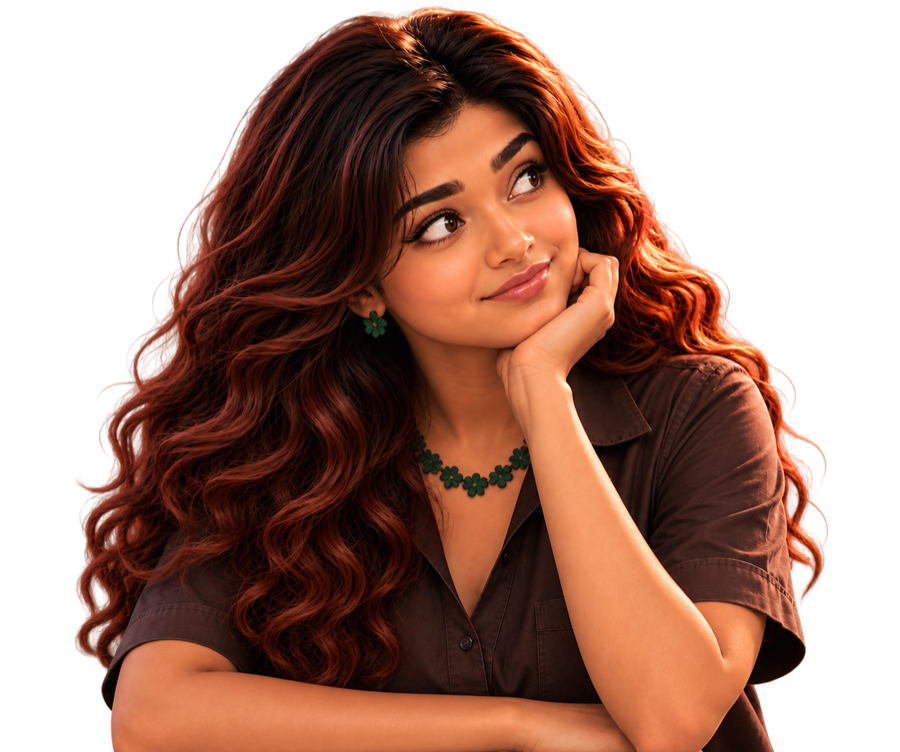
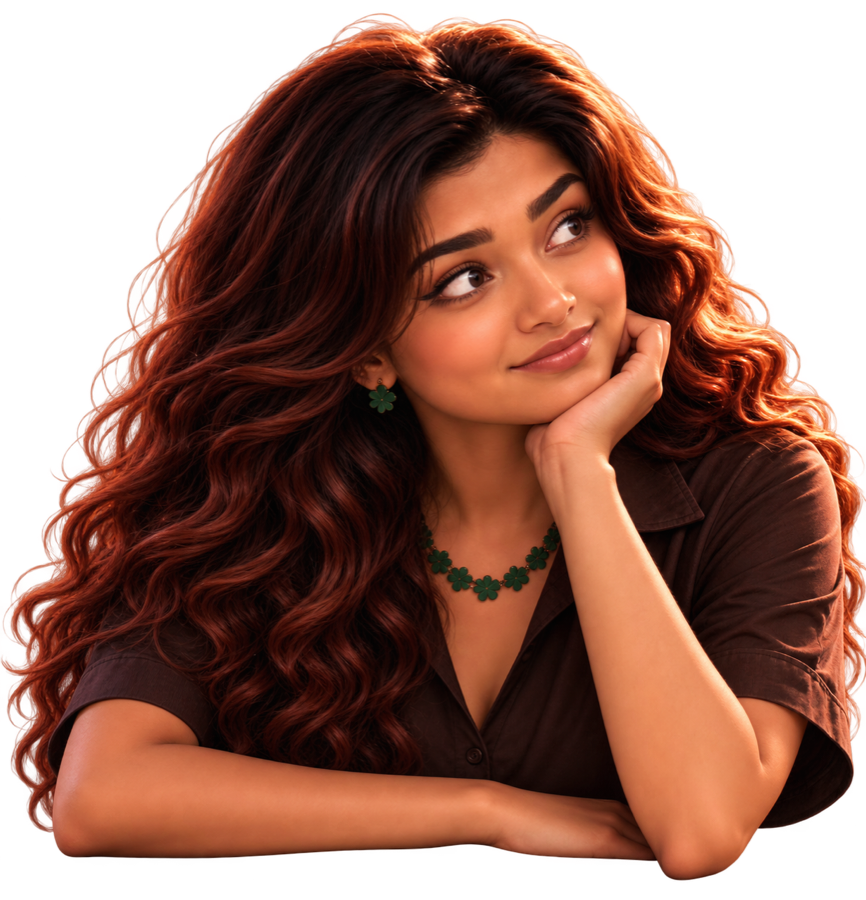
New idle drawing, and no more blinking
The old cut-out ran off the bottom of its own canvas mid-forearm, which is
why her hand kept looking sliced however the desk was masked over it. The
replacement ends on its own -- her last opaque row is 880 of 900, so the arm
curves and stops with clear canvas beneath it. Nothing has to be put in
front of her at rest any more.

It is also a much closer match to the frame she was cut from: fitted at
0.95 correlation against 0.90 for the one it replaces.

The drawings are cut on different canvases now -- this one 866x900, the
other two still 900x752 -- so each carries its own placement instead of
sharing one box, which would seat one of them wrong.

The desk still exists, but only comes up for the second or two the wave and
writing drawings are on screen, since those two do still run off their
canvases. It goes up before the swap and down after she is back.

And the blink is gone. A lid dropped over a drawn eye is a lid over
somebody else's eye, and at this size it was doing the same uncanny work
the moving irises were.

diff --git a/meet-the-mind.html b/meet-the-mind.html
@@ -69,27 +69,25 @@
 
 
   /* ---------- the character ----------
-     She is her own layer now. The room behind her is the empty plate of the very
-     same render, so lifting her out costs the scene nothing -- and once she is a
-     layer she can breathe, change pose, and carry an eye rig that belongs to her
-     rather than to the wallpaper.
+     She is her own layer. The room behind her is the empty plate of the very
+     same render, so lifting her out costs the scene nothing.
 
      .cast is the plate's own box, so anything inside it is measured against the
-     room. .figure is where she stands in it, found by compositing the cut-out
-     over the plate and correlating against the flattened frame she was cut from:
-     41.6% of the room's width at (23.34%, 9.20%). That is the same scale and the
-     same seat she has always had. */
+     room. Each drawing then carries its own placement, because they are cut on
+     different canvases -- the idle one at 866x900, the other two at 900x752 --
+     and a single shared box would seat one of them wrong. Every placement was
+     found the same way: the drawing composited over the plate and correlated
+     against the flattened frame it came from. */
   .cast {
     position: absolute; top: 0; left: 0; z-index: 1;
     width: 100%; aspect-ratio: 934 / 1685;
     pointer-events: none;
   }
   .figure {
-    position: absolute; left: 23.34%; top: 9.199%;
-    width: 41.627%; aspect-ratio: 900 / 752;
+    position: absolute; inset: 0;
     /* she grows from where she meets the desk, so breathing lifts her chest
        rather than sliding the whole of her up the frame */
-    transform-origin: 50% 100%;
+    transform-origin: 50% 78%;
   }
   /* Barely there on purpose: six tenths of a pixel and a fifteen-hundredth of
      scale, over five seconds. It should never be caught in the act -- it is only
@@ -100,30 +98,9 @@
   }
   .figure { animation: breathe 5s ease-in-out infinite; }
 
-  /* ---------- the desk, back in front of her ----------
-     Her drawing runs off the bottom of its own canvas mid-forearm. In the
-     flattened frame that cut never showed, because the desk was composited in
-     front of her; lifting her out left it bare, and a straight edge across her
-     arms is exactly what makes a character look pasted on.
-
-     So the desk goes back. This is the same plate again, masked to a narrow band
-     that starts just above where she is cut and painted over her. Everywhere
-     else it is the plate drawn over the plate -- identical pixels, invisible --
-     and it stops well short of the copy below. */
-  .desk {
-    position: absolute; top: 0; left: 0; z-index: 2;
-    width: 100%; aspect-ratio: 934 / 1685;
-    background: url("assets/meet/hero-plate.jpg") top center / 100% auto no-repeat;
-    /* The leading edge is tight on purpose. A long fade dissolves her forearm
-       into the desk, which reads as a blur; four pixels reads as the desk being
-       in front of it. The tail is soft because nothing depends on where it ends. */
-    -webkit-mask-image: linear-gradient(180deg, transparent 28.15%, #000 28.4%, #000 31.5%, transparent 33%);
-    mask-image: linear-gradient(180deg, transparent 28.15%, #000 28.4%, #000 31.5%, transparent 33%);
-    pointer-events: none;
-  }
-
   .pose {
-    position: absolute; inset: 0; width: 100%; height: auto;
+    position: absolute; height: auto;
+    left: var(--px); top: var(--py); width: var(--pw);
     opacity: 0; transform: scale(1.005); filter: blur(2px);
     transition: opacity .34s cubic-bezier(.22, .61, .36, 1),
                 transform .34s cubic-bezier(.22, .61, .36, 1),
@@ -134,33 +111,30 @@
      through a breath of blur and half a percent of scale reads as her moving. */
   .pose.on { opacity: 1; transform: scale(1); filter: blur(0); }
 
-  /* ---------- the blink ----------
-     Her eyes stay exactly as drawn. The only thing laid over them is a closed
-     lid, held at zero opacity and flashed on for a blink -- so what you see
-     between blinks is her own artwork, not a reconstruction of it.
+  .pose-idle    { --px: 24.786%; --py: 8.813%;  --pw: 35.326%; }
+  .pose-wave    { --px: 23.340%; --py: 9.199%;  --pw: 41.627%; }
+  .pose-writing { --px: 23.340%; --py: 9.199%;  --pw: 41.627%; }
 
-     Both lids are placed as a percentage of .figure, the same wrapper the
-     drawing of her is in, so they stay welded to her face at every width. */
-  .face {
-    position: absolute; inset: 0; pointer-events: none;
-    /* she is drawn a little larger than she is shown, so she carries a softness
-       the lids do not; half a pixel of blur puts them in the same air */
-    filter: blur(.35px);
-    opacity: 1; transition: opacity .18s ease;
+  /* ---------- the desk, in front of her ----------
+     The idle drawing ends on its own -- her forearm curves and stops well above
+     the edge of its canvas -- so at rest nothing needs to be put in front of
+     her. The other two still run off their canvas mid-arm, and a straight edge
+     across her arms is what makes a character look pasted on, so the desk comes
+     up for the second or two they are on screen.
+
+     It is the same plate again, masked to a narrow band. Everywhere inside that
+     band it is the plate drawn over the plate -- identical pixels, invisible --
+     so raising and lowering it shows only where she is. */
+  .desk {
+    position: absolute; top: 0; left: 0; z-index: 2;
+    width: 100%; aspect-ratio: 934 / 1685;
+    background: url("assets/meet/hero-plate.jpg") top center / 100% auto no-repeat;
+    -webkit-mask-image: linear-gradient(180deg, transparent 28.15%, #000 28.4%, #000 31.5%, transparent 33%);
+    mask-image: linear-gradient(180deg, transparent 28.15%, #000 28.4%, #000 31.5%, transparent 33%);
+    pointer-events: none;
+    opacity: 0; transition: opacity .18s ease;
   }
-  /* The lids belong to the idle drawing. Over any other pose they would be a
-     pair of closed eyes on somebody else's face, so they leave before she does. */
-  .face.off { opacity: 0; }
-  .lid {
-    position: absolute; left: var(--x); top: var(--y); width: var(--lw);
-    transform: translate(-50%, -50%) rotate(var(--rot));
-    opacity: 0;
-  }
-  /* Read off the artwork at 8x. Her right eye sits lower and wider than her
-     left, and both are tilted with her head. */
-  .lid-l { --x: 48.111%; --y: 30.452%; --lw: 8.4%; --rot: -19deg; }
-  .lid-r { --x: 58.778%; --y: 25.133%; --lw: 6.2%; --rot: -23deg; }
-  .face.blink .lid { opacity: 1; }
+  .desk.on { opacity: 1; }
 
   /* Stillness means stillness: no breath, no pose changes, no cross-fades. She
      stays exactly as drawn. */
@@ -435,19 +409,15 @@
        that arrives late is not a wave. -->
   <div class="cast" aria-hidden="true">
     <div class="figure" id="figure">
-      <img class="pose on" id="poseIdle" src="assets/meet/avatar/pose-idle.png" alt="" draggable="false">
-      <img class="pose" id="poseWave" src="assets/meet/avatar/pose-wave.png" alt="" draggable="false">
-      <img class="pose" id="poseWriting" src="assets/meet/avatar/pose-writing.png" alt="" draggable="false">
-      <div class="face" id="face">
-        <img class="lid lid-l" src="assets/meet/avatar/eye-closed-l.png" alt="" draggable="false">
-        <img class="lid lid-r" src="assets/meet/avatar/eye-closed-r.png" alt="" draggable="false">
-      </div>
+      <img class="pose pose-idle on" id="poseIdle" src="assets/meet/avatar/pose-idle.png" alt="" draggable="false">
+      <img class="pose pose-wave" id="poseWave" src="assets/meet/avatar/pose-wave.png" alt="" draggable="false">
+      <img class="pose pose-writing" id="poseWriting" src="assets/meet/avatar/pose-writing.png" alt="" draggable="false">
     </div>
   </div>
 
-  <!-- The desk again, over her: she is cut off mid-forearm by her own canvas,
-       and this is what the flattened frame had in front of that cut. -->
-  <div class="desk" aria-hidden="true"></div>
+  <!-- The desk, raised over her only while she is in one of the two drawings
+       that run off their own canvas mid-arm. -->
+  <div class="desk" id="desk" aria-hidden="true"></div>
 
   <!-- The orbs and sparkles are the design's own, at the frame positions it
        gives them: they cluster around the title rather than scattering, which is
@@ -638,52 +608,30 @@
   })();
 
   /* ---------- she is alive ----------
-     No gaze tracking here. Eyes that follow the cursor sound charming and read
-     as unsettling: hers are painted looking off to her left, and an iris driven
-     around inside that opening fights the direction her whole face is already
-     pointing. What is left is what actually works -- she blinks, she breathes,
-     she waves, and now and then she goes back to her notebook. */
+     No gaze tracking and no blink. Both were tried and both read as wrong on a
+     face this size: eyes painted looking off to her left fight an iris driven
+     around inside them, and a lid dropped over a drawn eye is a lid over
+     somebody else's eye. What is left is what a still drawing cannot do on its
+     own -- she breathes, she waves, and now and then she goes back to work. */
   (function alive() {
-    const face = document.getElementById("face");
-    if (!face) return;
+    const figure = document.getElementById("figure");
+    if (!figure) return;
 
     const still = matchMedia("(prefers-reduced-motion: reduce)");
     const tracks = matchMedia("(hover: hover) and (pointer: fine)");
 
-    /* Only a clock now: the poses need to know when somebody last moved, and
-       nothing needs to know where. */
+    /* only a clock: the poses need to know when somebody last moved */
     let lastMove = 0;
     if (tracks.matches) {
       addEventListener("pointermove", () => { lastMove = performance.now(); }, { passive: true });
     }
 
-    /* A blink is 140ms of nothing: too fast to watch, slow enough to register.
-       The interval is deliberately uneven -- a metronome blink is worse than no
-       blink at all -- and once in a while she blinks twice. */
-    if (!still.matches) {
-      const blink = () => {
-        face.classList.add("blink");
-        setTimeout(() => {
-          face.classList.remove("blink");
-          if (Math.random() < 0.07) {          /* the rare double */
-            setTimeout(() => {
-              face.classList.add("blink");
-              setTimeout(() => face.classList.remove("blink"), 120);
-            }, 180);
-          }
-        }, 140);
-        setTimeout(blink, 3500 + Math.random() * 3500);
-      };
-      setTimeout(blink, 2000 + Math.random() * 2500);
-    }
-
     /* ---------- she moves ----------
-       Three drawings of her, and the idle one holds the screen for the great
-       majority of the time. The other two are events, not states: she greets
-       you once, and now and then she goes back to her notebook. Anything more
-       frequent and the page becomes a slideshow, which is the one thing it must
-       not be. */
-    const figure = document.getElementById("figure");
+       Three drawings, and the idle one holds the screen for the great majority
+       of the time. The other two are events, not states: she greets you once,
+       and now and then she goes back to her notebook. Anything more frequent
+       and the page becomes a slideshow, which is the one thing it must not be. */
+    const desk = document.getElementById("desk");
     const poses = {
       idle: document.getElementById("poseIdle"),
       wave: document.getElementById("poseWave"),
@@ -692,27 +640,25 @@
     let current = "idle", busy = false, lastPose = 0, greeted = false;
 
     function show(name, holdMs) {
-      if (still.matches || busy || current !== "idle") return Promise.resolve();
+      if (still.matches || busy || current !== "idle") return;
       busy = true;
-      /* The rig is the idle drawing's own. It goes first, so there is never a
-         frame of her eyes hanging over a different face. */
-      face.classList.add("off");
-      return new Promise(res => {
+      /* the desk comes up first, so the drawing that needs hiding is never
+         on screen without it */
+      desk.classList.add("on");
+      setTimeout(() => {
+        poses.idle.classList.remove("on");
+        poses[name].classList.add("on");
+        current = name;
         setTimeout(() => {
-          poses.idle.classList.remove("on");
-          poses[name].classList.add("on");
-          current = name;
+          poses[name].classList.remove("on");
+          poses.idle.classList.add("on");
+          current = "idle";
           setTimeout(() => {
-            poses[name].classList.remove("on");
-            poses.idle.classList.add("on");
-            current = "idle";
-            setTimeout(() => {
-              face.classList.remove("off");   /* eyes back only once she is */
-              busy = false; lastPose = performance.now(); res();
-            }, 360);
-          }, holdMs);
-        }, 170);
-      });
+            desk.classList.remove("on");   /* down only once she is back */
+            busy = false; lastPose = performance.now();
+          }, 380);
+        }, holdMs);
+      }, 170);
     }
 
     /* The greeting. Once per visit, on the first real sign of a person -- a
@@ -739,8 +685,7 @@
     setInterval(() => {
       if (still.matches || busy || !greeted) return;
       if (document.hidden) return;
-      const idleFor = performance.now() - lastMove;
-      if (idleFor < 15000) return;
+      if (performance.now() - lastMove < 15000) return;
       if (performance.now() - lastPose < 30000) return;
       if (Math.random() > 0.4) return;
       show("writing", 2000 + Math.random() * 2000);
